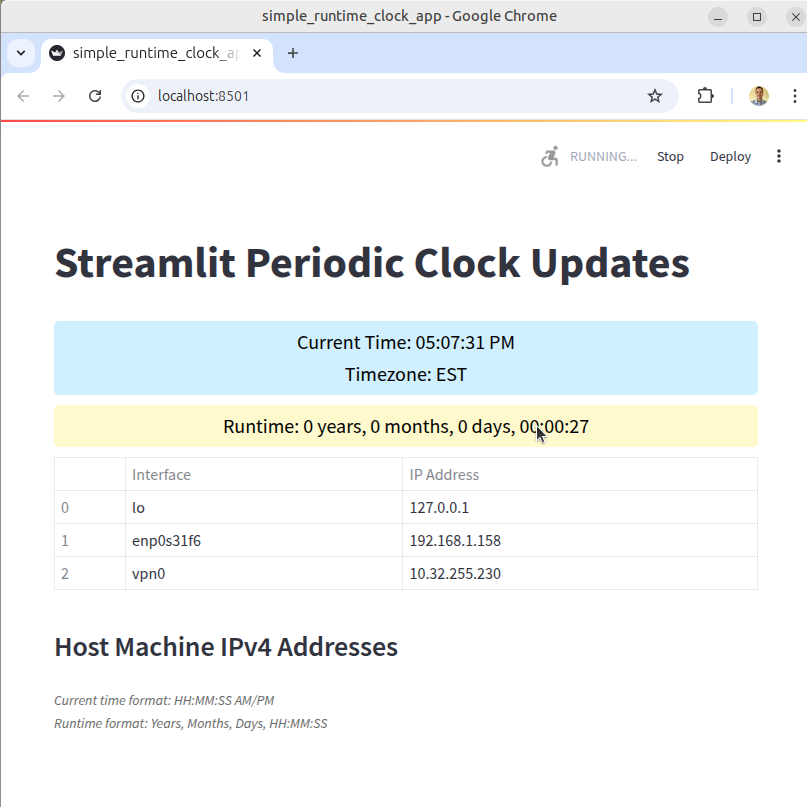
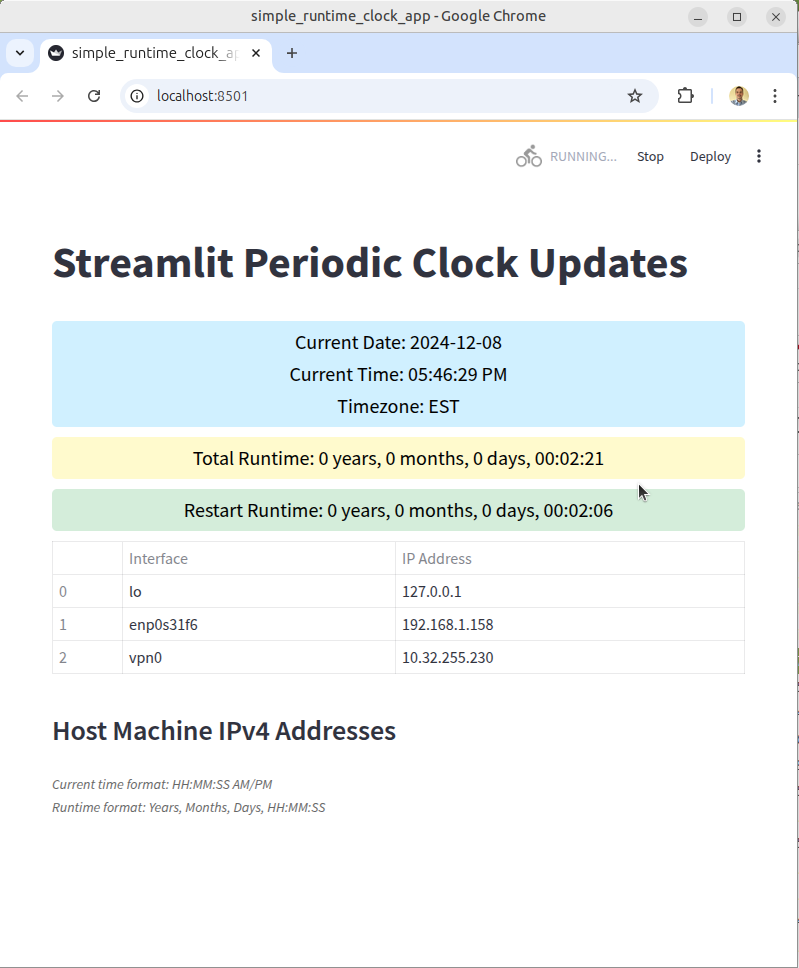
updated screenshot

Changed region(s): [[0.0601, 0.2478, 0.9612, 0.9294], [0.0, 0.0, 1.0, 1.0], [0.0601, 0.6196, 0.0901, 0.6815]]

diff --git a/simple_runtime_clock_app.py b/simple_runtime_clock_app.py
@@ -8,9 +8,15 @@ import time
 from datetime import datetime, timedelta
 import socket
 import psutil
+import os
 
-# Reset the start time each time the app runs
-st.session_state.start_time = time.time()
+# Set the total runtime start time if not already set
+if "total_start_time" not in st.session_state:
+    # Use a fixed reference time for total runtime tracking
+    st.session_state.total_start_time = time.time()
+
+# Set the restart start time (resets every time the app starts)
+st.session_state.restart_start_time = time.time()
 
 # Get current timezone
 current_timezone = datetime.now().astimezone().tzinfo
@@ -35,9 +41,12 @@ def format_runtime(seconds):
 
 # Function to update clocks
 def update_clocks():
-    elapsed_seconds = time.time() - st.session_state.start_time
-    st.session_state.runtime = format_runtime(elapsed_seconds)
+    total_elapsed_seconds = time.time() - st.session_state.total_start_time
+    restart_elapsed_seconds = time.time() - st.session_state.restart_start_time
+    st.session_state.total_runtime = format_runtime(total_elapsed_seconds)
+    st.session_state.restart_runtime = format_runtime(restart_elapsed_seconds)
     st.session_state.current_time = datetime.now().strftime("%I:%M:%S %p")  # Current time in AM/PM format
+    st.session_state.current_date = datetime.now().strftime("%Y-%m-%d")  # Current date
 
 # Periodically update clocks
 update_interval = 1  # seconds
@@ -55,8 +64,17 @@ st.markdown("""
         border-radius: 5px;
         margin-bottom: 10px;
     }
-    .runtime-clock-bar {
+    .total-runtime-bar {
         background-color: #fffacd;
+        color: #000;
+        font-size: 20px;
+        text-align: center;
+        padding: 5px 0;
+        border-radius: 5px;
+        margin-bottom: 10px;
+    }
+    .restart-runtime-bar {
+        background-color: #d4edda;
         color: #000;
         font-size: 20px;
         text-align: center;
@@ -75,7 +93,8 @@ st.markdown("""
 
 # Containers for the clocks
 current_time_container = st.empty()
-runtime_clock_container = st.empty()
+total_runtime_container = st.empty()
+restart_runtime_container = st.empty()
 ipv4_table_container = st.empty()
 
 # Display IPv4 addresses in a table
@@ -94,19 +113,25 @@ st.markdown(
 # Main loop to update clocks
 while True:
     update_clocks()
-    # Display current time with description and timezone
+    # Display current date and time with description and timezone
     current_time_container.markdown(
         f'''
         <div class="current-time-bar">
+            Current Date: {st.session_state.current_date} <br>
             Current Time: {st.session_state.current_time} <br>
             Timezone: {current_timezone}
         </div>
         ''',
         unsafe_allow_html=True,
     )
-    # Display runtime clock with description in a styled bar
-    runtime_clock_container.markdown(
-        f'<div class="runtime-clock-bar">Runtime: {st.session_state.runtime}</div>',
+    # Display total runtime clock with description in a styled bar
+    total_runtime_container.markdown(
+        f'<div class="total-runtime-bar">Total Runtime: {st.session_state.total_runtime}</div>',
+        unsafe_allow_html=True,
+    )
+    # Display restart runtime clock with description in a styled bar
+    restart_runtime_container.markdown(
+        f'<div class="restart-runtime-bar">Restart Runtime: {st.session_state.restart_runtime}</div>',
         unsafe_allow_html=True,
     )
     time.sleep(update_interval)
